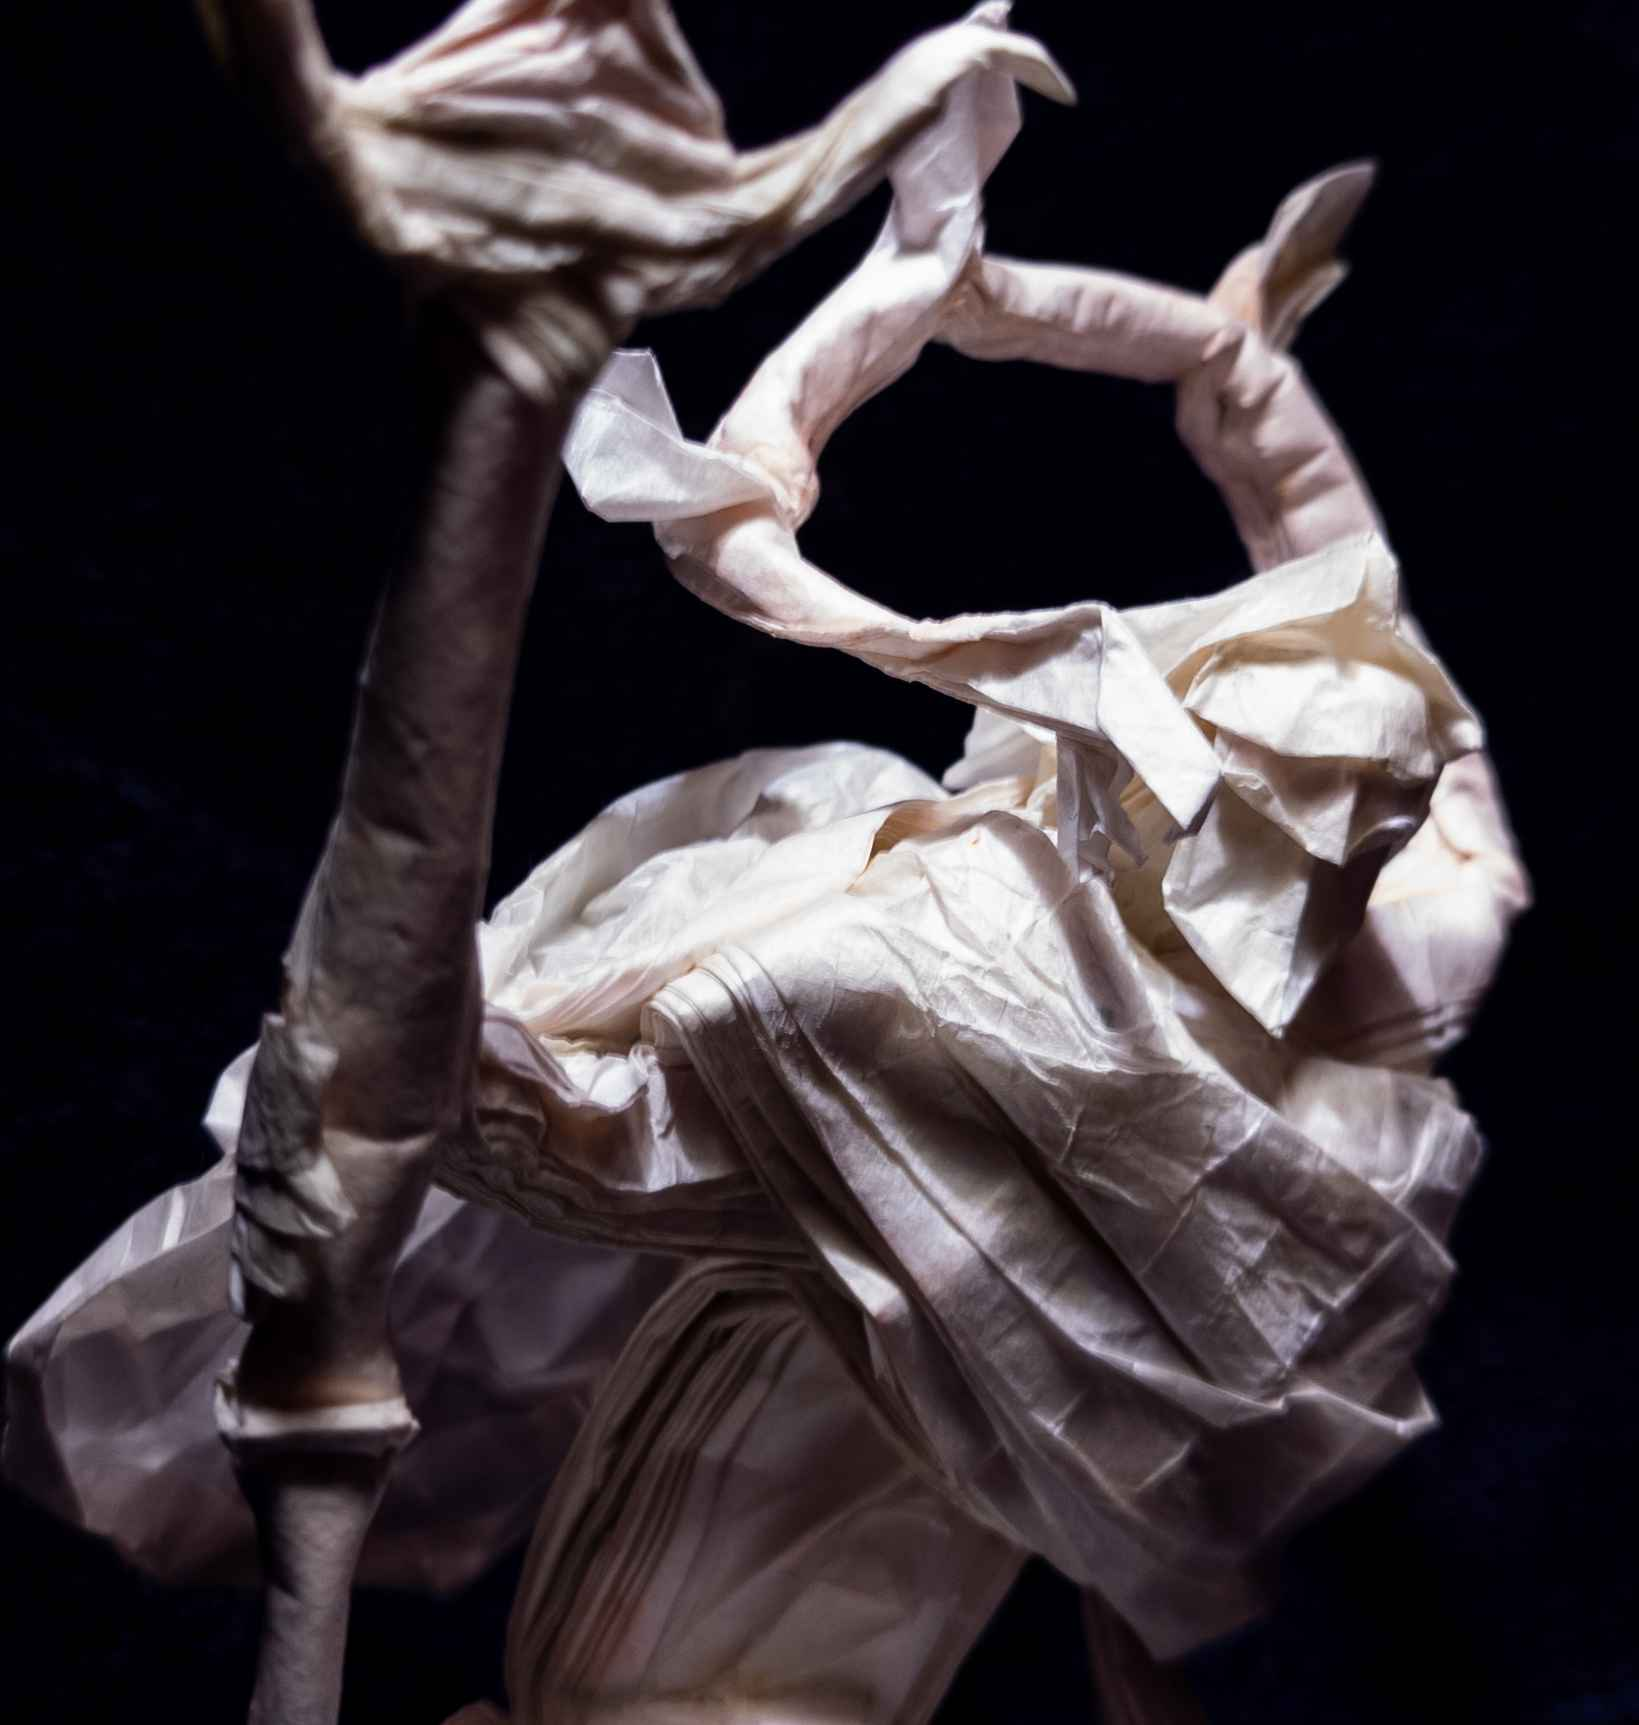
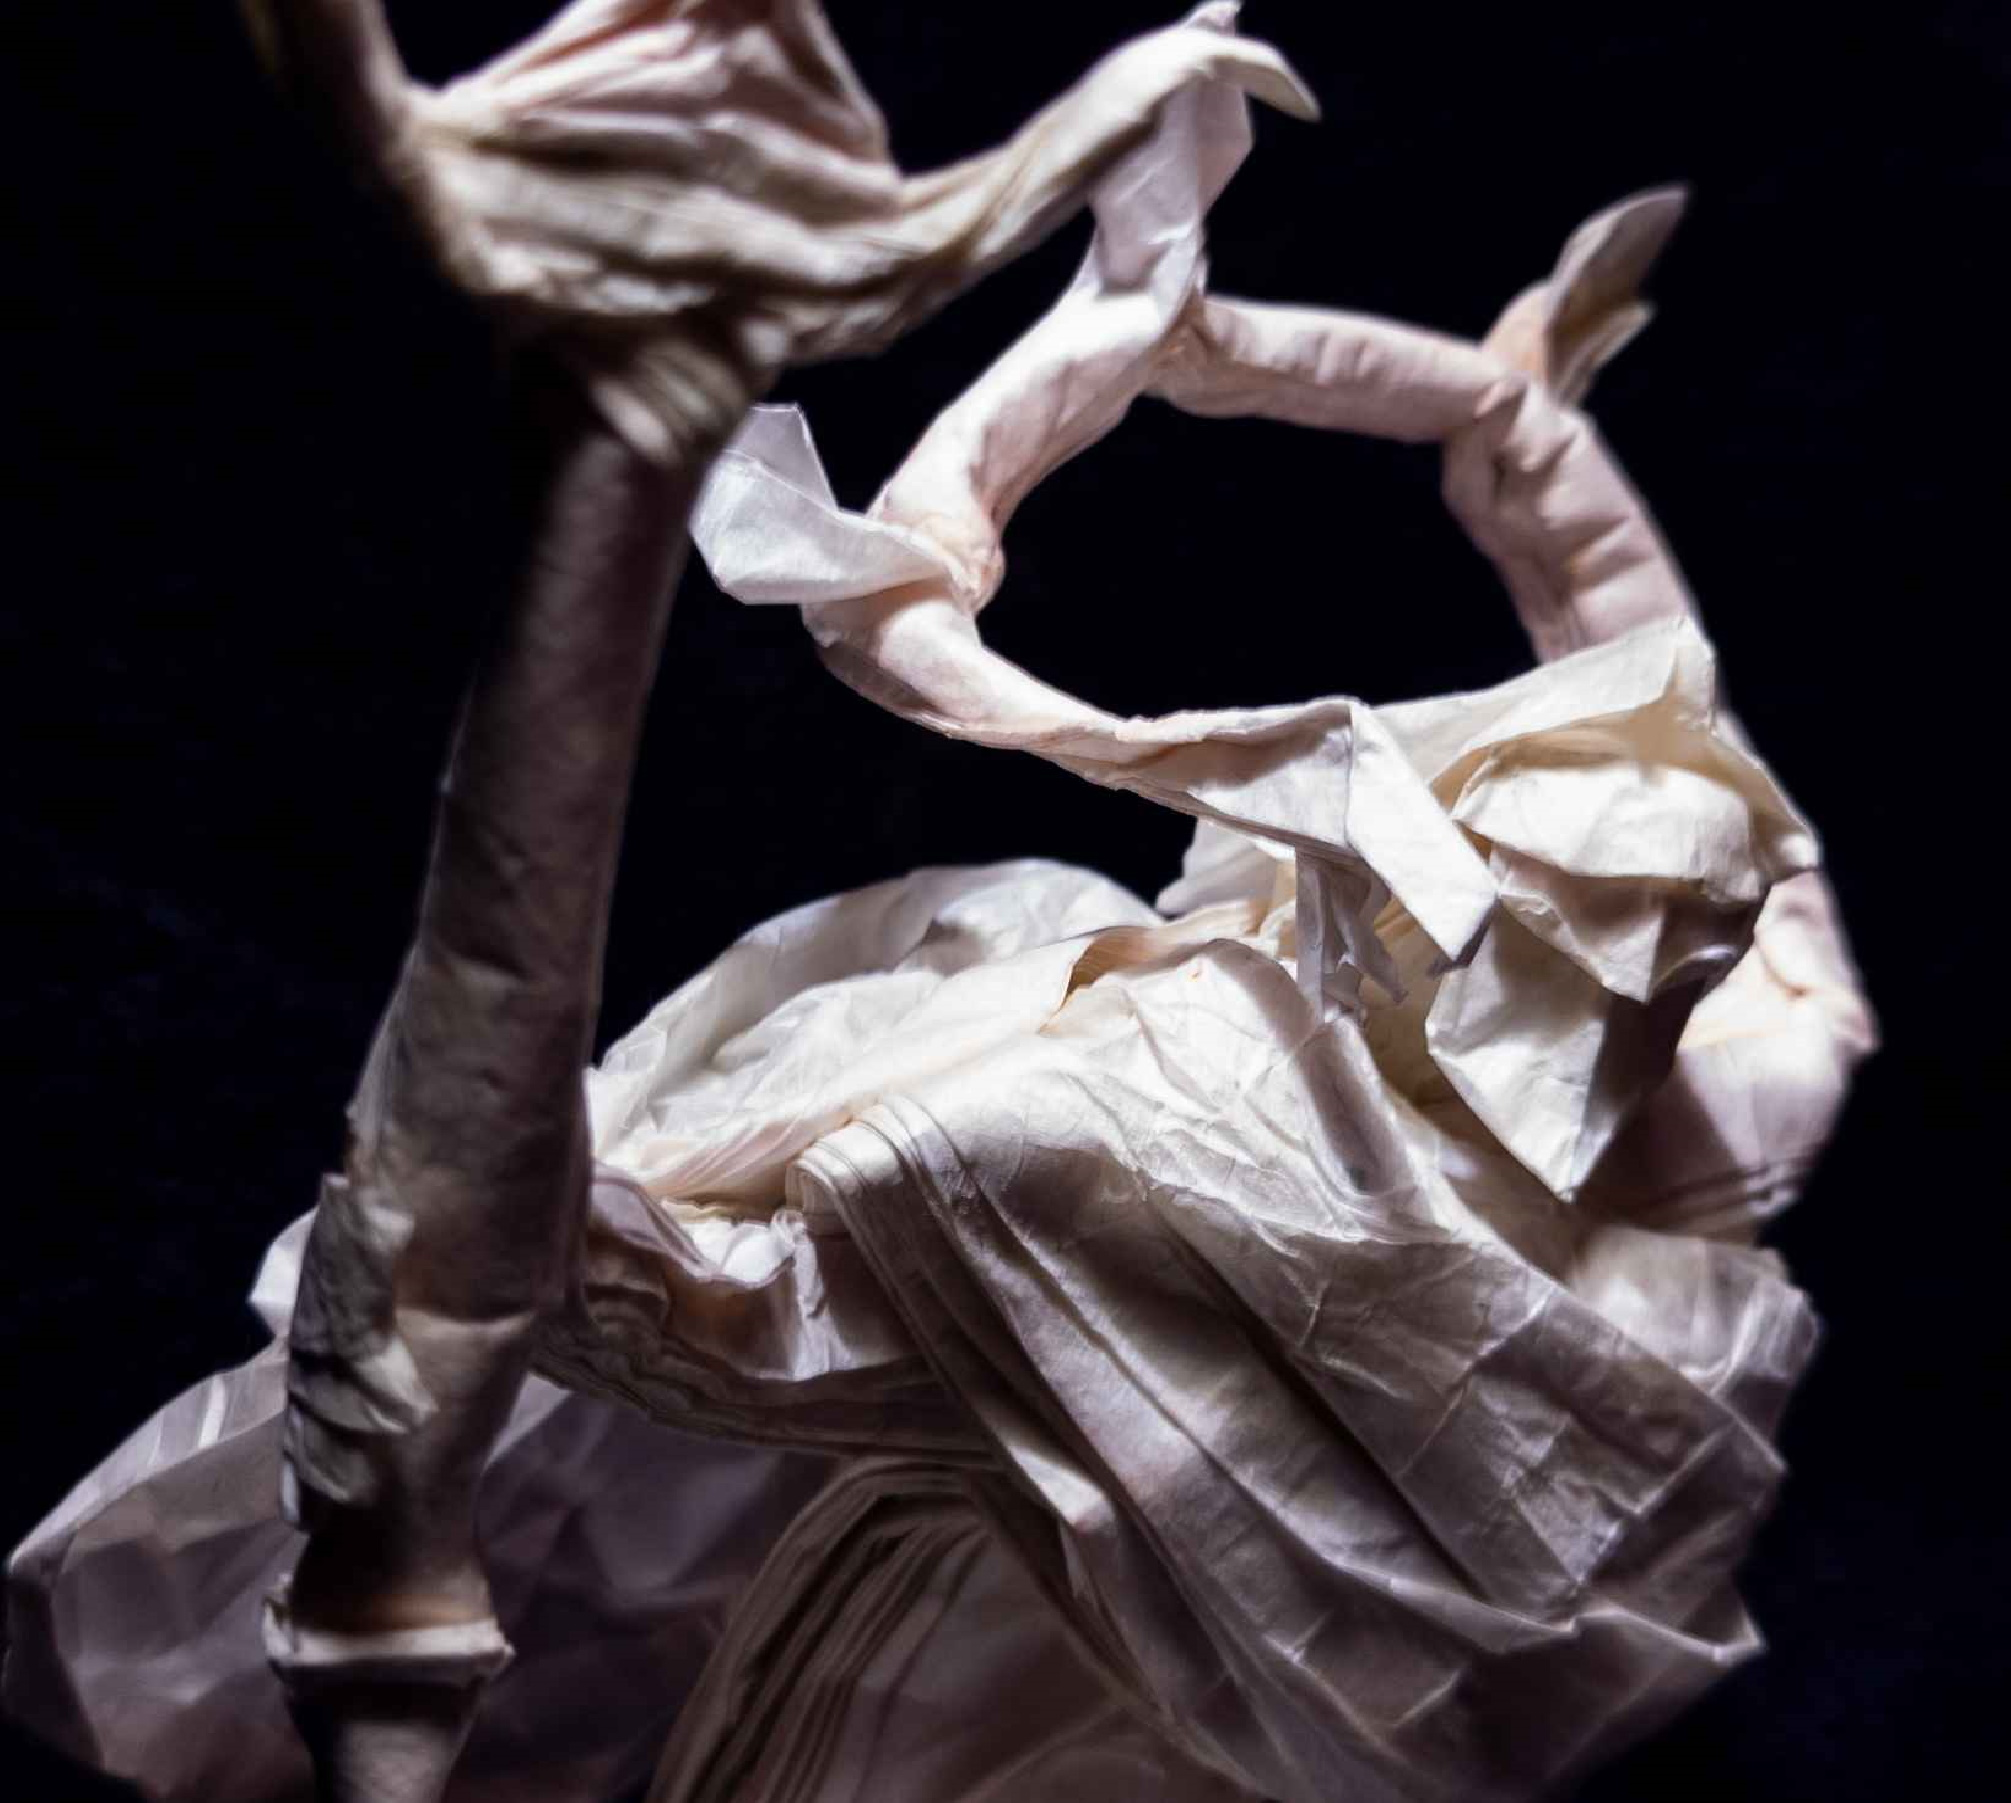
added another post and did some formatting for images

diff --git a/main.css b/main.css
@@ -247,14 +247,21 @@ hr{
   color: white;
 }
 
+.bg-div {
+  background-color:lightgray;
+  border-radius: 10px;
+  text-align: center;
+}
+
 .image-table {
   margin: auto;
-  background-color:lightgray;
   border-radius: 10px;
 }
 
 .image-table img {
-  width: 30vh;
+  margin: auto;
+  display: block;
+  width: 100%;
   border-radius: 10px;
 
 }

diff --git a/posts/2024-08-15-messmer.md b/posts/2024-08-15-messmer.md
@@ -12,7 +12,7 @@ data:
   show_on_homepage: true
 ---
 <div class = "blog-post">
-<hr>
+<br>
 <div class = "title">
 Messmer the Impaler
     </div>
@@ -20,23 +20,40 @@ Messmer the Impaler
 <div class = "page-summary">
 A boss from Elden Ring, in origami
 </div>
-<hr>
-<br>
+    <hr>
+    <br>
+    <div class = "bg-div">
+    <br>
     <table class = "image-table">
     <th><img src="/assets/origami/messmer1.jpg"></th>
     <th><img src="/assets/origami/messmer4.jpg"></th>
     </table>
-
+    <br>
+    I actually learned some photography concepts for this one. 
+    <br>
+    <br>
+    </div>
 
 I wanted to make a character from Elden Ring, and I was in the middle of playing the new DLC when I designed this. I settled on Messmer as a subject particularly for his complexity - he has a large spear, requiring lots of extra paper, long snakes in two different directions, and an interesting robe to mimic. He's also one of the best bosses in the game, and the design is cool - so I figured it would make a good origami model.
 
-Ideally, I should have used red paper to depict his real color, but I tried with new mulberry paper that I've never tried before. I gave it a single treatment of MC and started folding. A lot of this is free-folded, although I used BP studio to generally map out where each limb and snake would be. His robes ended up being pretty hard to 
+Ideally, I should have used red paper to depict his real color, but I tried with new mulberry paper that I've never tried before. I gave it a single treatment of MC and started folding. A lot of this is free-folded, although I used BP studio to generally map out where each limb and snake would be. His robes ended up being pretty hard - I probably should have used 3 or 4 flaps entirely, and then I could have shaped it closer to how it should be. 
 
-here are some pictures
-
-<table class = "img-grid">
-<th><img src="/assets/origami/messmer3.jpg" class = "display-image"></th>
-<th><img src="/assets/origami/messmer2.jpg" class = "display-image"></th>
+<br>
+<div class = "bg-div">
+<br>
+<table class = "image-table">
+<th><img src="/assets/origami/messmer2.jpg"></th>
+<th><img src="/assets/origami/messmer3.jpg"></th>
 </table>
+<br>
+Close-ups!
+<br>
+<br>
+</div>
 
+Here are some close-ups of the the face and upper snake - I am pleased with how the robes ended up looking from the outside, even if their shape isn't like the 3D model. It also made me realize that I didn't really know how to plan out faces/heads - I kinda just planned a few flaps in the same area of similar length, and had to turn a couple into one and use them in an in-efficient manner to get these results. Still - I like how the face looks, just disappointed with not having the correct flaps to make a good helmet. 
+
+Here's a reference to the character:
+
+<img src="/assets/origami/messmer3d.jpg">
 </div>

diff --git a/posts/2024-08-23-kabutomushi_sk.md b/posts/2024-08-23-kabutomushi_sk.md
@@ -1,0 +1,66 @@
+---
+title: Flying Kabutomushi by Shuki Kato
+description: My favorite design from Shuki Kato
+categories:
+- origami
+- folds
+published_date: 2024-08-23 02:09:40.7750091 +0000
+layout: posts.liquid
+is_draft: false
+data:
+  show_on_homepage: true
+  thumbnail: /assets/origami/kabutomushi_thumbnail.png
+---
+<div class = "blog-post">
+<br>
+<div class = "title">
+Shuki Kato's Flying Kabutomushi
+</div>
+
+<div class = "page-summary">
+A Japanese Rhinoceros Beetle - actually the subject of that meme "whatever. go my scarab"
+</div>
+<hr>
+
+<div class = "bg-div">
+<br>
+<table class = "image-table">
+<th><img src="/assets/origami/kabutomushi11.jpg"></th>
+<th><img src="/assets/origami/kabutomushi12.jpg"></th>
+</table>
+<br>
+again, sorry for the photography...
+<br>
+<br>
+</div>
+
+Beetles are probably the most popular origami subject - they're perfect for the medium. This is a very complex one, and definitely my favorite of Shuki Kato's models, despite its difficulty. I highly recommend folding this if you have enough time and skill. 
+
+<div class = "bg-div">
+<br>
+<table class = "image-table">
+<th><img src="/assets/origami/kabutomushi3.jpg"></th>
+<th><img src="/assets/origami/kabutomushi5.jpg"></th>
+<th><img src="/assets/origami/kabutomushi6.jpg"></th>
+</table>
+<br>
+some outdoor shots...
+<br>
+<br>
+</div>
+
+I used to keep bess beetles in a jar when I was a kid - I would feed them leaves and bark, and over years they would reduce the food into mulch. Those beetles were weird - they would scream at you if you picked them up. I also sometimes would isolate the "super-worms" I fed to my lizard - they would metamorphose into a beetle that was pretty similar to the bess beetles. I kinda want to keep some beetles now.
+
+I have my own beetle designs coming soon, actually. 
+
+<div class = "bg-div">
+<br>
+<table class = "image-table">
+<th><img src="/assets/origami/kabutomushi8.jpg"></th>
+</table>
+<br>
+up-close
+<br>
+<br>
+</div>
+</div>

diff --git a/posts/2024-08-15-pachacuti.md b/posts/2024-08-15-pachacuti.md
@@ -17,10 +17,17 @@ data:
     <div class = "title"> {{ page.title }} </div>
     <hr>
     <br>
-    <table>
-    <th><img src="/assets/origami/pachacuti1.png" class = "display-image"></th>
-    <th><img src="/assets/origami/pachacuti2.png" class = "display-image"></th>
+    <div class = "bg-div">
+    <br>
+    <table class = "image-table">
+    <th><img src="/assets/origami/pachacuti1.png"></th>
+    <th><img src="/assets/origami/pachacuti2.png"></th>
     </table>
+    <br>
+    sorry for the photography...
+    <br>
+    <br>
+    </div>
 
 Pachacuti is the common Anglicization of Pachacutec Inca Yupanqui, the ninth Sapa Inka, and the leader to take Cuzco from a city-state of regional importance to a growing imperial power. 
 
@@ -34,5 +41,9 @@ This was my first model I ever designed. I used box pleating and BP studio to co
 
 Based on this statue of Pachacuti in Cuzco.
 
-<img src="/assets/origami/pachacuti_statue.jpg" class = "display-image">
+<table class = "image-table">
+<th>
+<img src="/assets/origami/pachacuti_statue.jpg" >
+</th>
+</table>
 </div>
